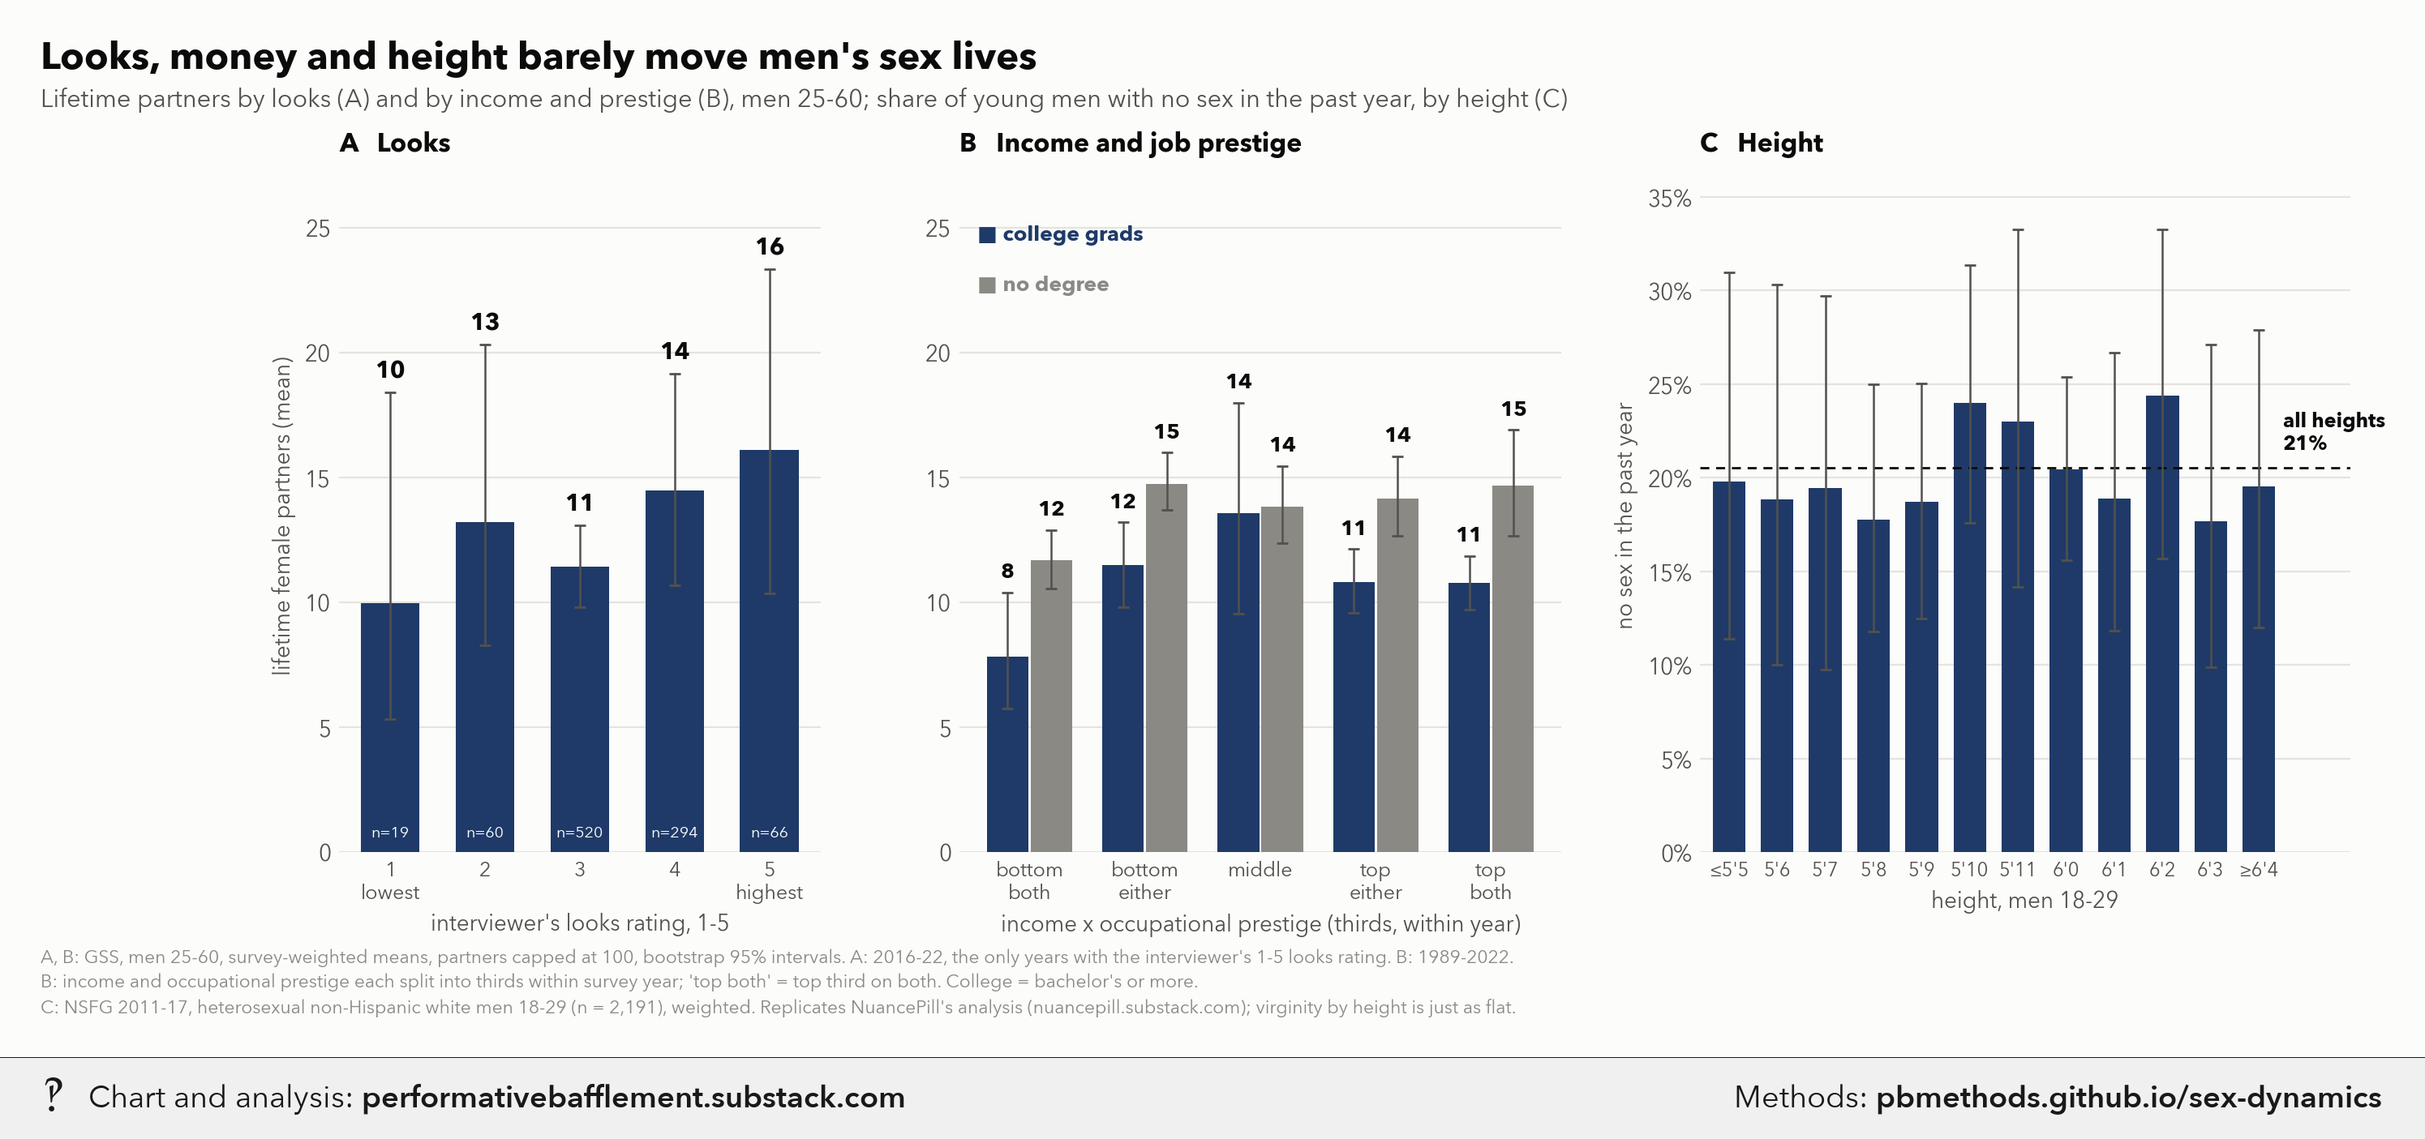
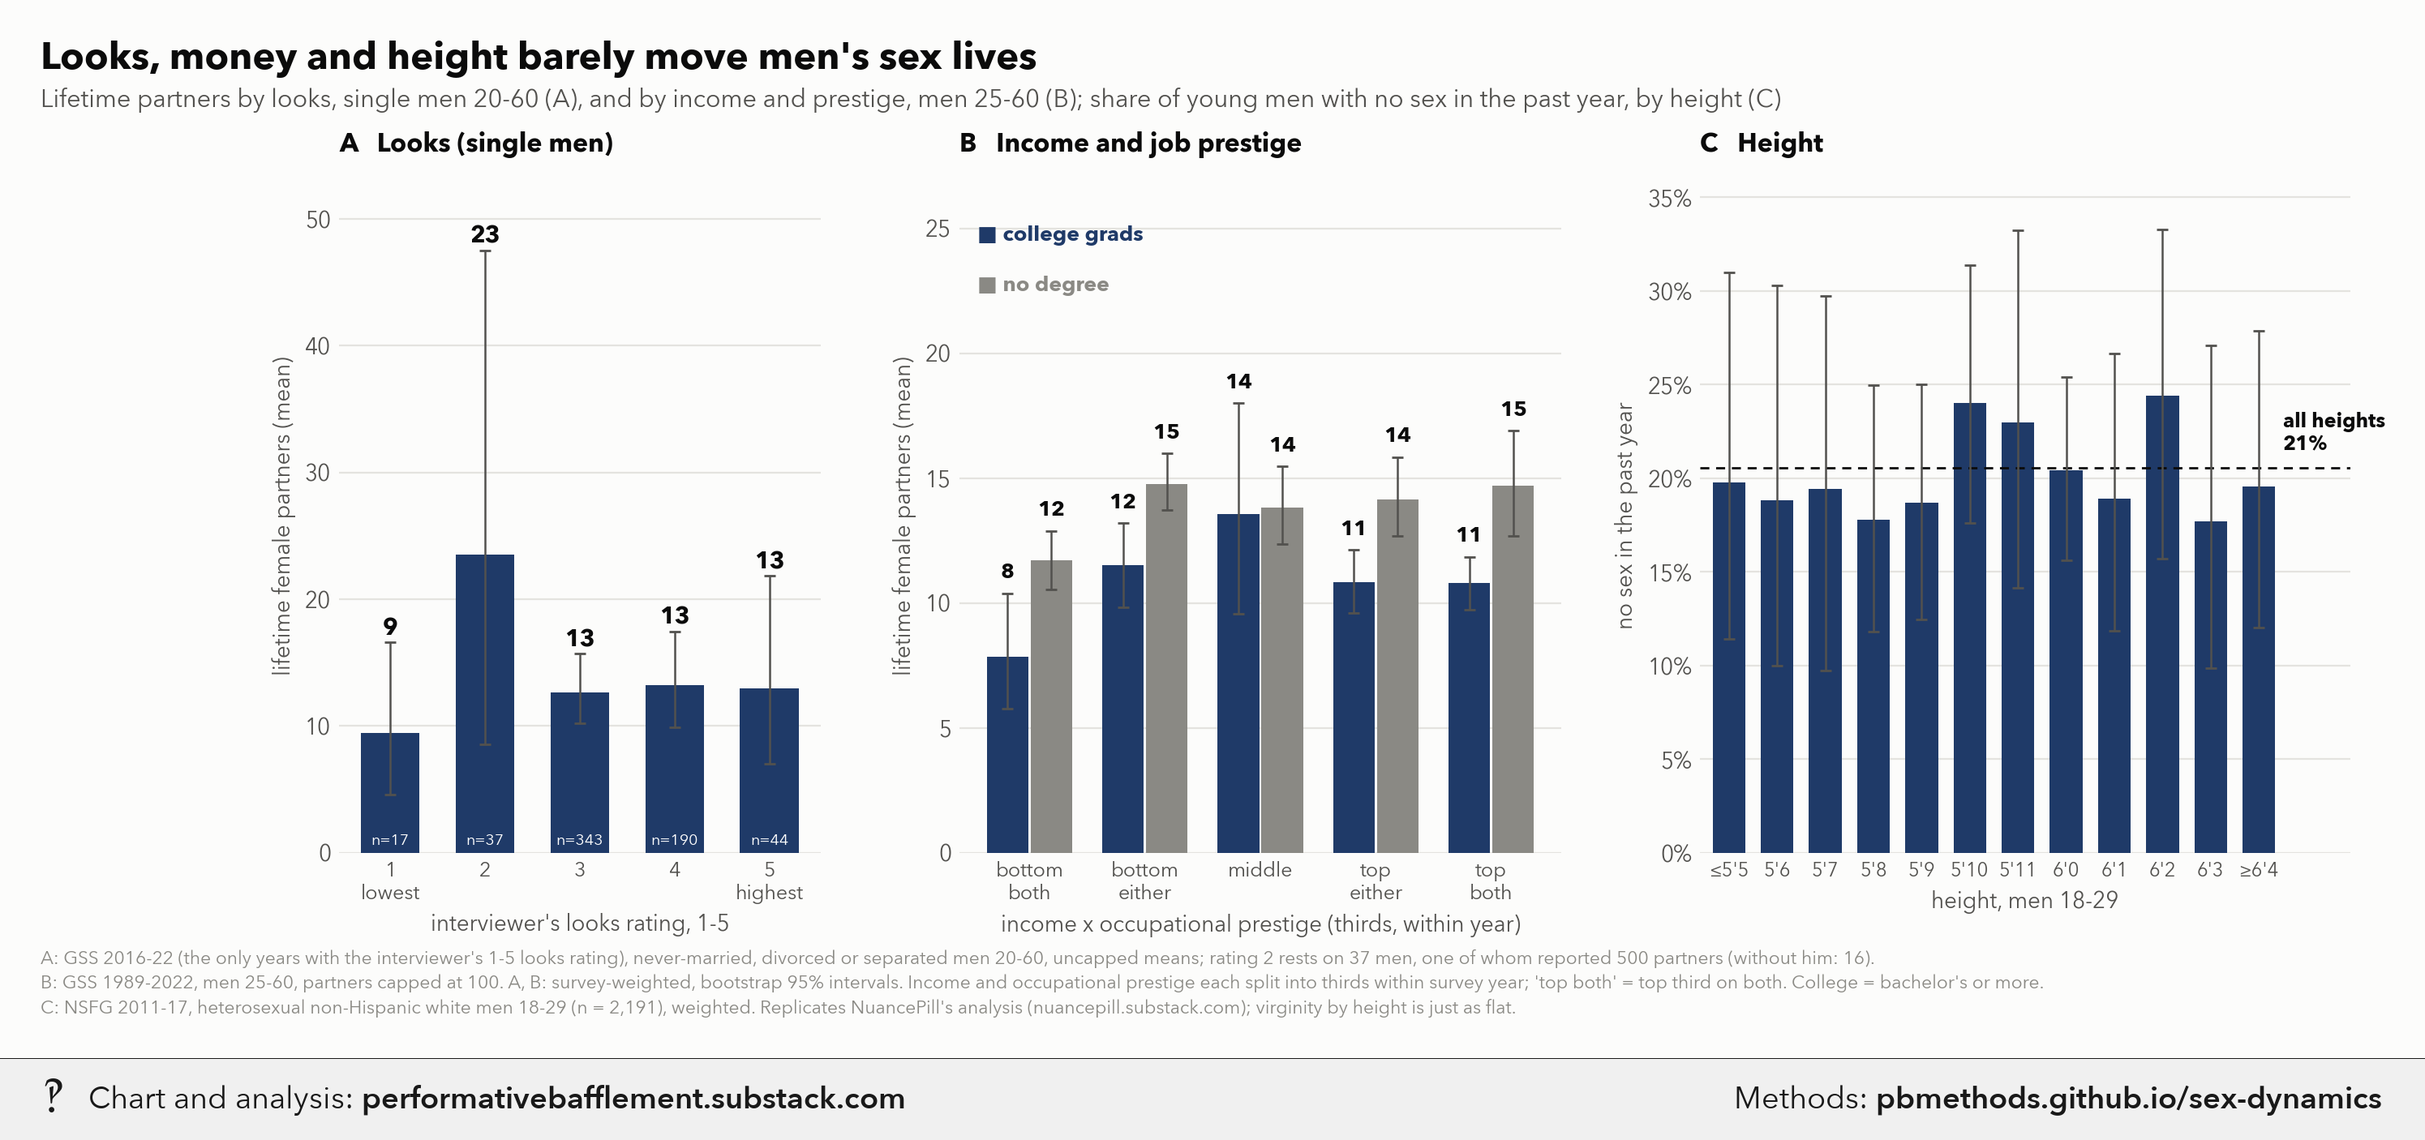
Update sex-dynamics

diff --git a/sex-dynamics/index.html b/sex-dynamics/index.html
@@ -83,9 +83,10 @@ Writes small CSVs next to this script; `master_post_charts.py` draws them. Run f
 **Sources computed here.**
 
 * **GSS 1972-2024 cumulative file** (`gss7224_r2.dta`), survey-weighted with `wtssps` (missing weight = 1).
-  - *Looks* (`rlooks`, asked 2016, 2018 and 2022): the interviewer rates the respondent's physical attractiveness 1-5 at the end of the
-    interview. Men aged 25-60, lifetime female partners since 18 (`numwomen`, 0-989), winsorised at 100.
-    All five ratings are shown; only 19 men got a 1 and 66 a 5, so those means are imprecise.
+  - *Looks* (`rlooks`, asked 2016, 2018 and 2022): the interviewer rates the respondent's physical attractiveness
+    1-5 at the end of the interview. Single men (never married, divorced or separated) aged 20-60, mean lifetime
+    female partners since 18 (`numwomen`, 0-989) *uncapped*, as in the post's original chart. The CSV also keeps
+    each rating's median, largest answer, and mean without that largest answer.
   - *SES rungs*: own income (`conrinc`) and occupational prestige (`prestg10`), each ranked within survey year x
     sex and cut into thirds. &quot;Bottom both&quot; = bottom third on both; &quot;bottom either&quot; = bottom third on one; &quot;high
     both&quot; = top third on both; &quot;high either&quot; = top third on one (and not bottom on the other); the rest are
@@ -169,48 +170,66 @@ Every number and method is in `master_post_data.py`'s docstring; caveats are in 
 <th>mean_partners</th>
 <th>lo</th>
 <th>hi</th>
+<th>median</th>
+<th>largest_answer</th>
+<th>mean_without_largest</th>
 </tr>
 </thead>
 <tbody>
 <tr>
 <td>1 (lowest)</td>
 <td>1</td>
-<td>19</td>
-<td>9.985</td>
-<td>5.316</td>
-<td>18.398</td>
+<td>17</td>
+<td>9.471</td>
+<td>4.558</td>
+<td>16.627</td>
+<td>11.000</td>
+<td>50.000</td>
+<td>8.368</td>
 </tr>
 <tr>
 <td>2</td>
 <td>2</td>
-<td>60</td>
-<td>13.213</td>
-<td>8.287</td>
-<td>20.331</td>
+<td>37</td>
+<td>23.491</td>
+<td>8.563</td>
+<td>47.514</td>
+<td>6.000</td>
+<td>500.000</td>
+<td>16.471</td>
 </tr>
 <tr>
 <td>3</td>
 <td>3</td>
-<td>520</td>
-<td>11.431</td>
-<td>9.822</td>
-<td>13.086</td>
+<td>343</td>
+<td>12.669</td>
+<td>10.214</td>
+<td>15.692</td>
+<td>5.000</td>
+<td>200.000</td>
+<td>12.174</td>
 </tr>
 <tr>
 <td>4</td>
 <td>4</td>
-<td>294</td>
-<td>14.499</td>
-<td>10.689</td>
-<td>19.172</td>
+<td>190</td>
+<td>13.222</td>
+<td>9.887</td>
+<td>17.473</td>
+<td>6.500</td>
+<td>200.000</td>
+<td>12.191</td>
 </tr>
 <tr>
 <td>5 (highest)</td>
 <td>5</td>
-<td>66</td>
-<td>16.112</td>
-<td>10.348</td>
-<td>23.359</td>
+<td>44</td>
+<td>12.988</td>
+<td>6.984</td>
+<td>21.840</td>
+<td>5.500</td>
+<td>200.000</td>
+<td>9.309</td>
 </tr>
 </tbody>
 </table>
@@ -2071,9 +2090,10 @@ Writes small CSVs next to this script; `master_post_charts.py` draws them. Run f
 **Sources computed here.**
 
 * **GSS 1972-2024 cumulative file** (`gss7224_r2.dta`), survey-weighted with `wtssps` (missing weight = 1).
-  - *Looks* (`rlooks`, asked 2016, 2018 and 2022): the interviewer rates the respondent's physical attractiveness 1-5 at the end of the
-    interview. Men aged 25-60, lifetime female partners since 18 (`numwomen`, 0-989), winsorised at 100.
-    All five ratings are shown; only 19 men got a 1 and 66 a 5, so those means are imprecise.
+  - *Looks* (`rlooks`, asked 2016, 2018 and 2022): the interviewer rates the respondent's physical attractiveness
+    1-5 at the end of the interview. Single men (never married, divorced or separated) aged 20-60, mean lifetime
+    female partners since 18 (`numwomen`, 0-989) *uncapped*, as in the post's original chart. The CSV also keeps
+    each rating's median, largest answer, and mean without that largest answer.
   - *SES rungs*: own income (`conrinc`) and occupational prestige (`prestg10`), each ranked within survey year x
     sex and cut into thirds. &quot;Bottom both&quot; = bottom third on both; &quot;bottom either&quot; = bottom third on one; &quot;high
     both&quot; = top third on both; &quot;high either&quot; = top third on one (and not bottom on the other); the rest are
@@ -2163,13 +2183,20 @@ g[&quot;pres_pct&quot;] = g.groupby([&quot;year&quot;, &quot;sex&quot;]).prestg1
 men = g[g.sex.eq(1) &amp; g.numwomen.between(0, 989)].copy()
 men[&quot;bc&quot;] = men.numwomen.clip(upper=100)
 
-lk = men[men.rlooks.between(1, 5)].copy()
+# single men (never married, divorced, separated) 20-60, UNCAPPED partner counts, as in the post's original chart
+lk = read_gss([&quot;year&quot;, &quot;age&quot;, &quot;sex&quot;, &quot;numwomen&quot;, &quot;rlooks&quot;, &quot;marital&quot;, &quot;wtssps&quot;])
+lk = lk[lk.sex.eq(1) &amp; lk.age.between(20, 60) &amp; lk.marital.isin([3, 4, 5]) &amp; lk.rlooks.between(1, 5)
+        &amp; lk.numwomen.between(0, 989)].copy()
+lk[&quot;w&quot;] = lk.wtssps.fillna(1.0)
 LOOKS_LAB = {1: &quot;1 (lowest)&quot;, 2: &quot;2&quot;, 3: &quot;3&quot;, 4: &quot;4&quot;, 5: &quot;5 (highest)&quot;}
 rows = []
 for k, lab in LOOKS_LAB.items():
-    s = lk[lk.rlooks == k]
-    lo, hi = boot_ci(s.bc, s.w)
-    rows.append({&quot;looks&quot;: lab, &quot;code&quot;: k, &quot;n&quot;: len(s), &quot;mean_partners&quot;: wmean(s.bc, s.w), &quot;lo&quot;: lo, &quot;hi&quot;: hi})
+    s_ = lk[lk.rlooks == k]
+    lo, hi = boot_ci(s_.numwomen, s_.w)
+    top = s_.numwomen.idxmax()
+    rows.append({&quot;looks&quot;: lab, &quot;code&quot;: k, &quot;n&quot;: len(s_), &quot;mean_partners&quot;: wmean(s_.numwomen, s_.w), &quot;lo&quot;: lo, &quot;hi&quot;: hi,
+                 &quot;median&quot;: float(s_.numwomen.median()), &quot;largest_answer&quot;: float(s_.numwomen.max()),
+                 &quot;mean_without_largest&quot;: wmean(s_.numwomen.drop(top), s_.w.drop(top))})
 LOOKS = pd.DataFrame(rows)
 LOOKS.to_csv(HERE / &quot;looks_partners.csv&quot;, index=False)
 print(&quot;looks:\n&quot;, LOOKS.round(2).to_string(index=False))
@@ -2514,9 +2541,9 @@ for xi, v, hi, n in zip(x, looks.mean_partners, looks.hi, looks.n):
     ax.text(xi, hi + 0.6, f&quot;{v:.0f}&quot;, ha=&quot;center&quot;, fontsize=10.5, fontweight=&quot;bold&quot;, color=INK)
     ax.text(xi, 0.6, f&quot;n={n}&quot;, ha=&quot;center&quot;, fontsize=7, color=&quot;white&quot;)
 ax.set_xticks(x, [&quot;1\nlowest&quot;, &quot;2&quot;, &quot;3&quot;, &quot;4&quot;, &quot;5\nhighest&quot;], fontsize=9)
-ax.set_ylim(0, 27); ax.set_ylabel(&quot;lifetime female partners (mean)&quot;)
+ax.set_ylim(0, max(27, looks.hi.max() * 1.12)); ax.set_ylabel(&quot;lifetime female partners (mean)&quot;)
 ax.set_xlabel(&quot;interviewer's looks rating, 1-5&quot;)
-panel_title(ax, &quot;A&quot;, &quot;Looks&quot;)
+panel_title(ax, &quot;A&quot;, &quot;Looks (single men)&quot;)
 
 ax = axes[1]
 rungs = [&quot;bottom both&quot;, &quot;bottom either&quot;, &quot;middle&quot;, &quot;high either&quot;, &quot;high both&quot;]
@@ -2531,7 +2558,7 @@ for i, (coll, colr, lab) in enumerate([(True, NAVY, &quot;college grads&quot;), 
     ax.text(-0.45, 24.5 - 2.0 * i, &quot;■ &quot; + lab, fontsize=9.5, color=colr, fontweight=&quot;bold&quot;, ha=&quot;left&quot;)
 ax.set_xticks(x, [&quot;bottom\nboth&quot;, &quot;bottom\neither&quot;, &quot;middle&quot;, &quot;top\neither&quot;, &quot;top\nboth&quot;], fontsize=9)
 ax.set_xlabel(&quot;income x occupational prestige (thirds, within year)&quot;)
-ax.set_ylim(0, 27)
+ax.set_ylim(0, 27); ax.set_ylabel(&quot;lifetime female partners (mean)&quot;)
 panel_title(ax, &quot;B&quot;, &quot;Income and job prestige&quot;)
 
 ax = axes[2]
@@ -2549,11 +2576,13 @@ ax.set_ylabel(&quot;no sex in the past year&quot;); ax.set_xlabel(&quot;height, 
 panel_title(ax, &quot;C&quot;, &quot;Height&quot;)
 
 header(fig, &quot;Looks, money and height barely move men's sex lives&quot;,
-       &quot;Lifetime partners by looks (A) and by income and prestige (B), men 25-60; share of young men with no sex &quot;
-       &quot;in the past year, by height (C)&quot;, y=0.92)
-footnote(fig, &quot;A, B: GSS, men 25-60, survey-weighted means, partners capped at 100, bootstrap 95% intervals. A: 2016-22, the only &quot;
-              &quot;years with the interviewer's 1-5 looks rating. B: 1989-2022.\n&quot;
-              &quot;B: income and occupational prestige each split into thirds within survey year; 'top both' = top third &quot;
+       &quot;Lifetime partners by looks, single men 20-60 (A), and by income and prestige, men 25-60 (B); share of young &quot;
+       &quot;men with no sex in the past year, by height (C)&quot;, y=0.92)
+footnote(fig, f&quot;A: GSS 2016-22 (the only years with the interviewer's 1-5 looks rating), never-married, divorced or separated men 20-60, &quot;
+              f&quot;uncapped means; rating 2 rests on {int(looks.n[1])} men, one of whom reported {looks.largest_answer[1]:.0f} &quot;
+              f&quot;partners (without him: {looks.mean_without_largest[1]:.0f}).\nB: GSS 1989-2022, men 25-60, partners capped &quot;
+              &quot;at 100. A, B: survey-weighted, bootstrap 95% intervals. &quot;
+              &quot;Income and occupational prestige each split into thirds within survey year; 'top both' = top third &quot;
               &quot;on both. College = bachelor's or more.\n&quot;
               f&quot;C: NSFG 2011-17, heterosexual non-Hispanic white men 18-29 (n = {int(ht.loc[ht.inches == 0, 'n'].iloc[0]):,}), &quot;
               &quot;weighted. Replicates NuancePill's analysis (nuancepill.substack.com); virginity by height is just as flat.&quot;,

diff --git a/sex-dynamics/methods.md b/sex-dynamics/methods.md
@@ -76,9 +76,10 @@ Writes small CSVs next to this script; `master_post_charts.py` draws them. Run f
 **Sources computed here.**
 
 * **GSS 1972-2024 cumulative file** (`gss7224_r2.dta`), survey-weighted with `wtssps` (missing weight = 1).
-  - *Looks* (`rlooks`, asked 2016, 2018 and 2022): the interviewer rates the respondent's physical attractiveness 1-5 at the end of the
-    interview. Men aged 25-60, lifetime female partners since 18 (`numwomen`, 0-989), winsorised at 100.
-    All five ratings are shown; only 19 men got a 1 and 66 a 5, so those means are imprecise.
+  - *Looks* (`rlooks`, asked 2016, 2018 and 2022): the interviewer rates the respondent's physical attractiveness
+    1-5 at the end of the interview. Single men (never married, divorced or separated) aged 20-60, mean lifetime
+    female partners since 18 (`numwomen`, 0-989) *uncapped*, as in the post's original chart. The CSV also keeps
+    each rating's median, largest answer, and mean without that largest answer.
   - *SES rungs*: own income (`conrinc`) and occupational prestige (`prestg10`), each ranked within survey year x
     sex and cut into thirds. "Bottom both" = bottom third on both; "bottom either" = bottom third on one; "high
     both" = top third on both; "high either" = top third on one (and not bottom on the other); the rest are
@@ -159,13 +160,13 @@ Every number and method is in `master_post_data.py`'s docstring; caveats are in 
 
 ### `looks_partners.csv`
 
-| looks | code | n | mean_partners | lo | hi |
-|---|---|---|---|---|---|
-| 1 (lowest) | 1 | 19 | 9.985 | 5.316 | 18.398 |
-| 2 | 2 | 60 | 13.213 | 8.287 | 20.331 |
-| 3 | 3 | 520 | 11.431 | 9.822 | 13.086 |
-| 4 | 4 | 294 | 14.499 | 10.689 | 19.172 |
-| 5 (highest) | 5 | 66 | 16.112 | 10.348 | 23.359 |
+| looks | code | n | mean_partners | lo | hi | median | largest_answer | mean_without_largest |
+|---|---|---|---|---|---|---|---|---|
+| 1 (lowest) | 1 | 17 | 9.471 | 4.558 | 16.627 | 11.000 | 50.000 | 8.368 |
+| 2 | 2 | 37 | 23.491 | 8.563 | 47.514 | 6.000 | 500.000 | 16.471 |
+| 3 | 3 | 343 | 12.669 | 10.214 | 15.692 | 5.000 | 200.000 | 12.174 |
+| 4 | 4 | 190 | 13.222 | 9.887 | 17.473 | 6.500 | 200.000 | 12.191 |
+| 5 (highest) | 5 | 44 | 12.988 | 6.984 | 21.840 | 5.500 | 200.000 | 9.309 |
 
 ### `ses_partners.csv`
 
@@ -661,9 +662,10 @@ Writes small CSVs next to this script; `master_post_charts.py` draws them. Run f
 **Sources computed here.**
 
 * **GSS 1972-2024 cumulative file** (`gss7224_r2.dta`), survey-weighted with `wtssps` (missing weight = 1).
-  - *Looks* (`rlooks`, asked 2016, 2018 and 2022): the interviewer rates the respondent's physical attractiveness 1-5 at the end of the
-    interview. Men aged 25-60, lifetime female partners since 18 (`numwomen`, 0-989), winsorised at 100.
-    All five ratings are shown; only 19 men got a 1 and 66 a 5, so those means are imprecise.
+  - *Looks* (`rlooks`, asked 2016, 2018 and 2022): the interviewer rates the respondent's physical attractiveness
+    1-5 at the end of the interview. Single men (never married, divorced or separated) aged 20-60, mean lifetime
+    female partners since 18 (`numwomen`, 0-989) *uncapped*, as in the post's original chart. The CSV also keeps
+    each rating's median, largest answer, and mean without that largest answer.
   - *SES rungs*: own income (`conrinc`) and occupational prestige (`prestg10`), each ranked within survey year x
     sex and cut into thirds. "Bottom both" = bottom third on both; "bottom either" = bottom third on one; "high
     both" = top third on both; "high either" = top third on one (and not bottom on the other); the rest are
@@ -753,13 +755,20 @@ g["pres_pct"] = g.groupby(["year", "sex"]).prestg10.rank(pct=True) * 100
 men = g[g.sex.eq(1) & g.numwomen.between(0, 989)].copy()
 men["bc"] = men.numwomen.clip(upper=100)
 
-lk = men[men.rlooks.between(1, 5)].copy()
+# single men (never married, divorced, separated) 20-60, UNCAPPED partner counts, as in the post's original chart
+lk = read_gss(["year", "age", "sex", "numwomen", "rlooks", "marital", "wtssps"])
+lk = lk[lk.sex.eq(1) & lk.age.between(20, 60) & lk.marital.isin([3, 4, 5]) & lk.rlooks.between(1, 5)
+        & lk.numwomen.between(0, 989)].copy()
+lk["w"] = lk.wtssps.fillna(1.0)
 LOOKS_LAB = {1: "1 (lowest)", 2: "2", 3: "3", 4: "4", 5: "5 (highest)"}
 rows = []
 for k, lab in LOOKS_LAB.items():
-    s = lk[lk.rlooks == k]
-    lo, hi = boot_ci(s.bc, s.w)
-    rows.append({"looks": lab, "code": k, "n": len(s), "mean_partners": wmean(s.bc, s.w), "lo": lo, "hi": hi})
+    s_ = lk[lk.rlooks == k]
+    lo, hi = boot_ci(s_.numwomen, s_.w)
+    top = s_.numwomen.idxmax()
+    rows.append({"looks": lab, "code": k, "n": len(s_), "mean_partners": wmean(s_.numwomen, s_.w), "lo": lo, "hi": hi,
+                 "median": float(s_.numwomen.median()), "largest_answer": float(s_.numwomen.max()),
+                 "mean_without_largest": wmean(s_.numwomen.drop(top), s_.w.drop(top))})
 LOOKS = pd.DataFrame(rows)
 LOOKS.to_csv(HERE / "looks_partners.csv", index=False)
 print("looks:\n", LOOKS.round(2).to_string(index=False))
@@ -1107,9 +1116,9 @@ for xi, v, hi, n in zip(x, looks.mean_partners, looks.hi, looks.n):
     ax.text(xi, hi + 0.6, f"{v:.0f}", ha="center", fontsize=10.5, fontweight="bold", color=INK)
     ax.text(xi, 0.6, f"n={n}", ha="center", fontsize=7, color="white")
 ax.set_xticks(x, ["1\nlowest", "2", "3", "4", "5\nhighest"], fontsize=9)
-ax.set_ylim(0, 27); ax.set_ylabel("lifetime female partners (mean)")
+ax.set_ylim(0, max(27, looks.hi.max() * 1.12)); ax.set_ylabel("lifetime female partners (mean)")
 ax.set_xlabel("interviewer's looks rating, 1-5")
-panel_title(ax, "A", "Looks")
+panel_title(ax, "A", "Looks (single men)")
 
 ax = axes[1]
 rungs = ["bottom both", "bottom either", "middle", "high either", "high both"]
@@ -1124,7 +1133,7 @@ for i, (coll, colr, lab) in enumerate([(True, NAVY, "college grads"), (False, GR
     ax.text(-0.45, 24.5 - 2.0 * i, "■ " + lab, fontsize=9.5, color=colr, fontweight="bold", ha="left")
 ax.set_xticks(x, ["bottom\nboth", "bottom\neither", "middle", "top\neither", "top\nboth"], fontsize=9)
 ax.set_xlabel("income x occupational prestige (thirds, within year)")
-ax.set_ylim(0, 27)
+ax.set_ylim(0, 27); ax.set_ylabel("lifetime female partners (mean)")
 panel_title(ax, "B", "Income and job prestige")
 
 ax = axes[2]
@@ -1142,11 +1151,13 @@ ax.set_ylabel("no sex in the past year"); ax.set_xlabel("height, men 18-29")
 panel_title(ax, "C", "Height")
 
 header(fig, "Looks, money and height barely move men's sex lives",
-       "Lifetime partners by looks (A) and by income and prestige (B), men 25-60; share of young men with no sex "
-       "in the past year, by height (C)", y=0.92)
-footnote(fig, "A, B: GSS, men 25-60, survey-weighted means, partners capped at 100, bootstrap 95% intervals. A: 2016-22, the only "
-              "years with the interviewer's 1-5 looks rating. B: 1989-2022.\n"
-              "B: income and occupational prestige each split into thirds within survey year; 'top both' = top third "
+       "Lifetime partners by looks, single men 20-60 (A), and by income and prestige, men 25-60 (B); share of young "
+       "men with no sex in the past year, by height (C)", y=0.92)
+footnote(fig, f"A: GSS 2016-22 (the only years with the interviewer's 1-5 looks rating), never-married, divorced or separated men 20-60, "
+              f"uncapped means; rating 2 rests on {int(looks.n[1])} men, one of whom reported {looks.largest_answer[1]:.0f} "
+              f"partners (without him: {looks.mean_without_largest[1]:.0f}).\nB: GSS 1989-2022, men 25-60, partners capped "
+              "at 100. A, B: survey-weighted, bootstrap 95% intervals. "
+              "Income and occupational prestige each split into thirds within survey year; 'top both' = top third "
               "on both. College = bachelor's or more.\n"
               f"C: NSFG 2011-17, heterosexual non-Hispanic white men 18-29 (n = {int(ht.loc[ht.inches == 0, 'n'].iloc[0]):,}), "
               "weighted. Replicates NuancePill's analysis (nuancepill.substack.com); virginity by height is just as flat.",
